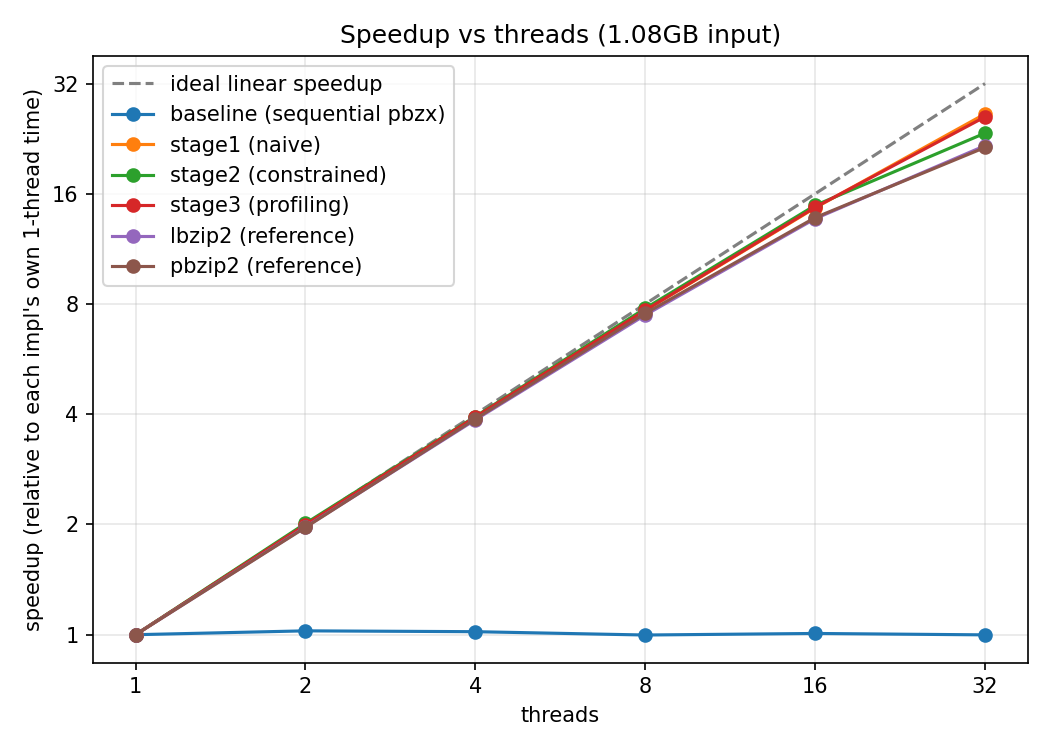
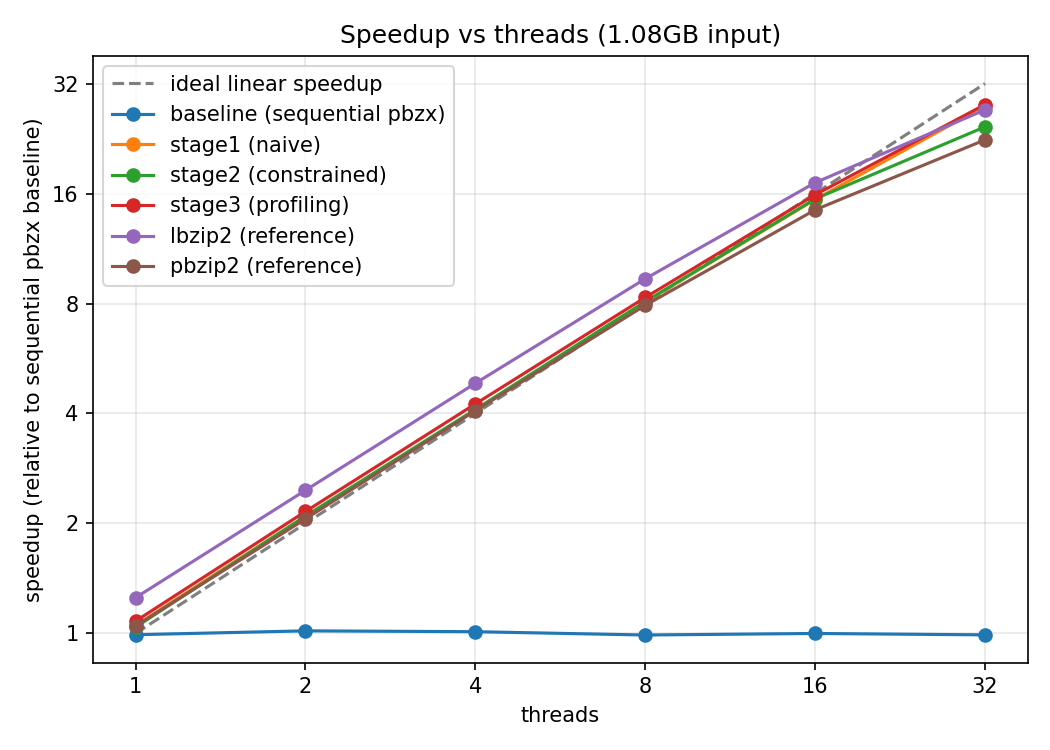
Compute speedup relative to sequential pbzx baseline
Previously speedup was relative to each implementation's own
1-thread time, which always started at 1x and hid how much faster
each parallelized/reference implementation is than the unoptimized
sequential baseline.

Changed region(s): [[0.1219, 0.1227, 0.9448, 0.8587], [0.0, 0.1227, 0.0914, 0.828], [0.061, 0.828, 0.0914, 0.8587]]

diff --git a/experiments/comparison/build_comparison.py b/experiments/comparison/build_comparison.py
@@ -107,10 +107,11 @@ def plot_runtime(times):
 def plot_speedup(times):
     fig, ax = plt.subplots(figsize=(7, 5))
     thread_vals = [1, 2, 4, 8, 16, 32]
+    baseline_means = mean_by_threads(times["baseline (sequential pbzx)"])
+    base = sum(baseline_means.values()) / len(baseline_means)
     ax.plot(thread_vals, thread_vals, linestyle="--", color="gray", label="ideal linear speedup")
     for impl, by_t in times.items():
         means = mean_by_threads(by_t)
-        base = means[1]
         xs = sorted(means)
         ax.plot(xs, [base / means[x] for x in xs], marker="o", label=impl)
     ax.set_xscale("log", base=2)
@@ -120,7 +121,7 @@ def plot_speedup(times):
     ax.set_yticks(thread_vals)
     ax.set_yticklabels([str(v) for v in thread_vals])
     ax.set_xlabel("threads")
-    ax.set_ylabel("speedup (relative to each impl's own 1-thread time)")
+    ax.set_ylabel("speedup (relative to sequential pbzx baseline)")
     ax.set_title("Speedup vs threads (1.08GB input)")
     ax.grid(True, which="both", alpha=0.3)
     ax.legend()